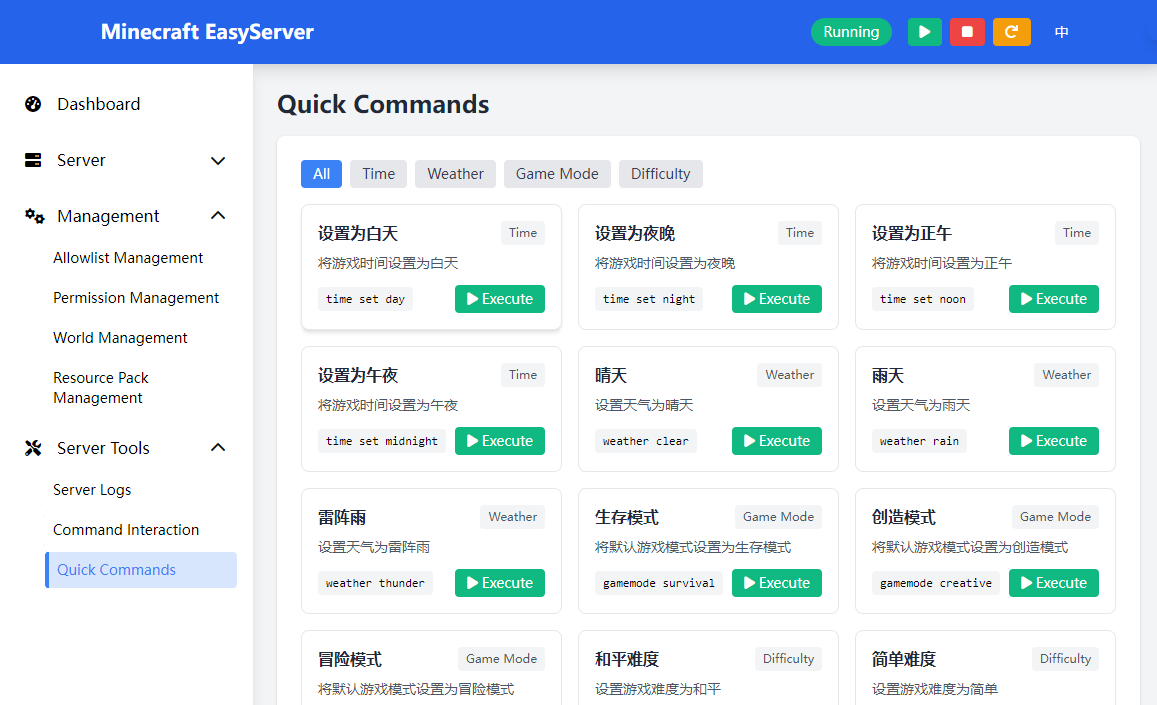
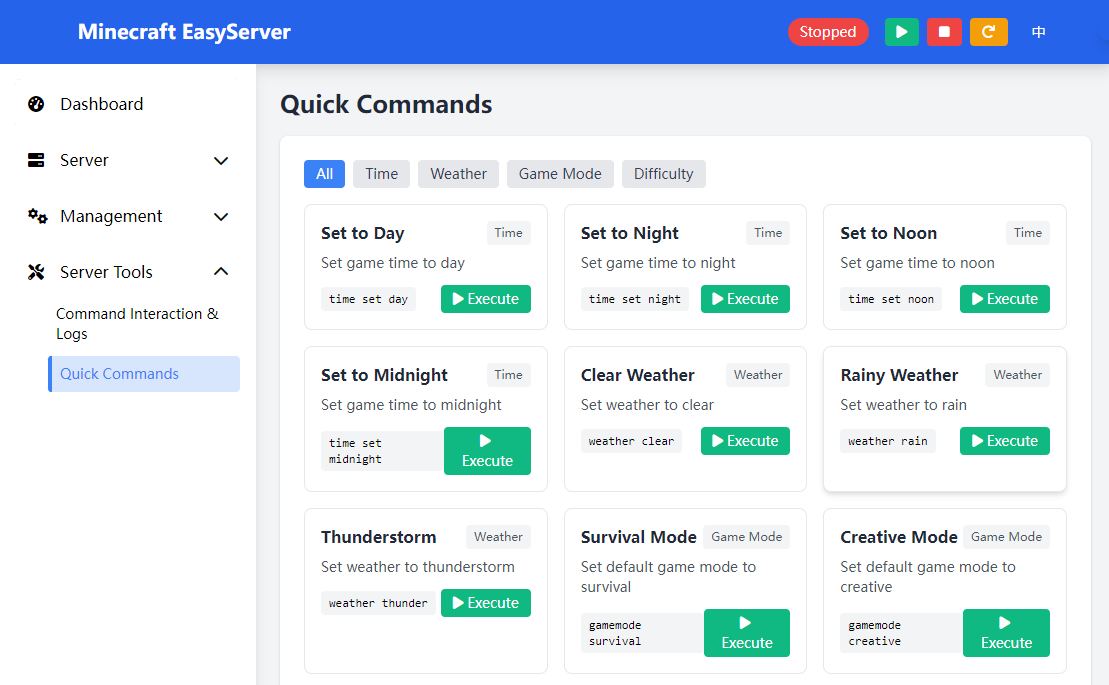
update readme and localization

diff --git a/web/assets/js/i18n.js b/web/assets/js/i18n.js
@@ -101,6 +101,9 @@ class I18n {
                 'permission.add': '添加权限',
                 'permission.empty': '暂无权限设置',
                 'permission.error.empty-name': '请输入玩家xuid',
+                
+                // Command Input
+                'command.input.placeholder': '输入服务器命令并按回车执行...',
                 'permission.modal.title': '选择权限级别',
                 'permission.modal.description': '为玩家',
                 'permission.modal.description2': '选择权限级别：',
@@ -182,6 +185,36 @@ class I18n {
                 'commands.filter-failed': '筛选命令失败',
                 'commands.executed': '命令已执行',
                 'commands.execute-failed': '执行命令失败',
+                
+                // Quick command names and descriptions
+                'commands.time_day.name': '设置为白天',
+                'commands.time_day.description': '将游戏时间设置为白天',
+                'commands.time_night.name': '设置为夜晚',
+                'commands.time_night.description': '将游戏时间设置为夜晚',
+                'commands.time_noon.name': '设置为正午',
+                'commands.time_noon.description': '将游戏时间设置为正午',
+                'commands.time_midnight.name': '设置为午夜',
+                'commands.time_midnight.description': '将游戏时间设置为午夜',
+                'commands.weather_clear.name': '晴天',
+                'commands.weather_clear.description': '设置天气为晴天',
+                'commands.weather_rain.name': '雨天',
+                'commands.weather_rain.description': '设置天气为雨天',
+                'commands.weather_thunder.name': '雷阵雨',
+                'commands.weather_thunder.description': '设置天气为雷阵雨',
+                'commands.gamemode_survival.name': '生存模式',
+                'commands.gamemode_survival.description': '将默认游戏模式设置为生存模式',
+                'commands.gamemode_creative.name': '创造模式',
+                'commands.gamemode_creative.description': '将默认游戏模式设置为创造模式',
+                'commands.gamemode_adventure.name': '冒险模式',
+                'commands.gamemode_adventure.description': '将默认游戏模式设置为冒险模式',
+                'commands.difficulty_peaceful.name': '和平难度',
+                'commands.difficulty_peaceful.description': '设置游戏难度为和平',
+                'commands.difficulty_easy.name': '简单难度',
+                'commands.difficulty_easy.description': '设置游戏难度为简单',
+                'commands.difficulty_normal.name': '普通难度',
+                'commands.difficulty_normal.description': '设置游戏难度为普通',
+                'commands.difficulty_hard.name': '困难难度',
+                'commands.difficulty_hard.description': '设置游戏难度为困难',
                 'logs.clear-success': '日志清空成功',
                 'logs.clear-failed': '日志清空失败',
                 'logs.load-failed': '日志加载失败',
@@ -299,6 +332,9 @@ class I18n {
                 'permission.add': 'Add Permission',
                 'permission.empty': 'No permission settings',
                 'permission.error.empty-name': 'Please enter player xuid',
+                
+                // Command Input
+                'command.input.placeholder': 'Enter server command and press Enter to execute...',
                 'permission.modal.title': 'Select Permission Level',
                 'permission.modal.description': 'For player',
                 'permission.modal.description2': 'select permission level:',
@@ -381,6 +417,36 @@ class I18n {
                 'commands.filter-failed': 'Failed to filter commands',
                 'commands.executed': 'Command executed',
                 'commands.execute-failed': 'Failed to execute command',
+                
+                // Quick command names and descriptions
+                'commands.time_day.name': 'Set to Day',
+                'commands.time_day.description': 'Set game time to day',
+                'commands.time_night.name': 'Set to Night',
+                'commands.time_night.description': 'Set game time to night',
+                'commands.time_noon.name': 'Set to Noon',
+                'commands.time_noon.description': 'Set game time to noon',
+                'commands.time_midnight.name': 'Set to Midnight',
+                'commands.time_midnight.description': 'Set game time to midnight',
+                'commands.weather_clear.name': 'Clear Weather',
+                'commands.weather_clear.description': 'Set weather to clear',
+                'commands.weather_rain.name': 'Rainy Weather',
+                'commands.weather_rain.description': 'Set weather to rain',
+                'commands.weather_thunder.name': 'Thunderstorm',
+                'commands.weather_thunder.description': 'Set weather to thunderstorm',
+                'commands.gamemode_survival.name': 'Survival Mode',
+                'commands.gamemode_survival.description': 'Set default game mode to survival',
+                'commands.gamemode_creative.name': 'Creative Mode',
+                'commands.gamemode_creative.description': 'Set default game mode to creative',
+                'commands.gamemode_adventure.name': 'Adventure Mode',
+                'commands.gamemode_adventure.description': 'Set default game mode to adventure',
+                'commands.difficulty_peaceful.name': 'Peaceful Difficulty',
+                'commands.difficulty_peaceful.description': 'Set game difficulty to peaceful',
+                'commands.difficulty_easy.name': 'Easy Difficulty',
+                'commands.difficulty_easy.description': 'Set game difficulty to easy',
+                'commands.difficulty_normal.name': 'Normal Difficulty',
+                'commands.difficulty_normal.description': 'Set game difficulty to normal',
+                'commands.difficulty_hard.name': 'Hard Difficulty',
+                'commands.difficulty_hard.description': 'Set game difficulty to hard',
                 'logs.clear-success': 'Logs cleared successfully',
                 'logs.clear-failed': 'Failed to clear logs',
                 'logs.load-failed': 'Failed to load logs',
@@ -471,6 +537,11 @@ class I18n {
         // Update server status if the function exists
         if (typeof updateServerStatus === 'function' && typeof currentServerStatus !== 'undefined') {
             updateServerStatus(currentServerStatus);
+        }
+        
+        // Update quick commands if the function exists
+        if (typeof loadQuickCommands === 'function') {
+            loadQuickCommands();
         }
     }
 

diff --git a/web/assets/js/app.js b/web/assets/js/app.js
@@ -1472,12 +1472,18 @@ function createQuickCommandElement(command) {
     const div = document.createElement('div');
     div.className = 'bg-white border border-gray-200 rounded-lg p-4 hover:shadow-md transition duration-200';
     
+    // Get internationalized name and description
+    const nameKey = `commands.${command.id}.name`;
+    const descriptionKey = `commands.${command.id}.description`;
+    const displayName = window.i18n ? window.i18n.t(nameKey) : command.name;
+    const displayDescription = window.i18n ? window.i18n.t(descriptionKey) : command.description;
+    
     div.innerHTML = `
         <div class="flex justify-between items-start mb-2">
-            <h4 class="font-semibold text-gray-800">${escapeHtml(command.name)}</h4>
+            <h4 class="font-semibold text-gray-800">${escapeHtml(displayName)}</h4>
             <span class="text-xs bg-gray-100 text-gray-600 px-2 py-1 rounded">${getCategoryDisplayName(command.category)}</span>
         </div>
-        <p class="text-sm text-gray-600 mb-3">${escapeHtml(command.description)}</p>
+        <p class="text-sm text-gray-600 mb-3">${escapeHtml(displayDescription)}</p>
         <div class="flex justify-between items-center">
             <code class="text-xs bg-gray-100 px-2 py-1 rounded font-mono">${escapeHtml(command.command)}</code>
             <button class="bg-green-500 hover:bg-green-600 text-white px-3 py-1 rounded text-sm transition duration-200" 

diff --git a/web/index.html b/web/index.html
@@ -444,7 +444,7 @@
                         <div class="bg-gray-900 px-4 py-3 rounded-b-lg border-t border-gray-700">
                             <div class="flex items-center space-x-2">
                                 <span class="text-green-400 font-mono text-sm">></span>
-                                <input type="text" id="command-input" class="flex-1 bg-transparent text-green-400 font-mono text-sm border-none outline-none placeholder-gray-500" placeholder="输入服务器命令并按回车执行...">
+                                <input type="text" id="command-input" class="flex-1 bg-transparent text-green-400 font-mono text-sm border-none outline-none placeholder-gray-500" data-i18n-placeholder="command.input.placeholder">
                                 <button id="send-command-btn" class="text-green-400 hover:text-green-300 transition duration-200" disabled>
                                     <i class="fas fa-paper-plane"></i>
                                 </button>

diff --git a/readme.md b/readme.md
@@ -62,10 +62,10 @@ A **lightweight** Minecraft server web management panel with modern UI and compr
 - **Quick Commands** Access frequently used commands through categorized quick access buttons
 
 ## 👀 Management Panel Preview
+![Dashboard Preview](docs/resources/screenshot-en-status.png)
 ![Management Panel Preview](docs/resources/screenshot-en-manage.png)
 ![Server Download Panel Preview](docs/resources/screenshot-en-version.png)
-![Log Interface Preview](docs/resources/screenshot-en-log.png)
-![Command Execution Interface Preview](docs/resources/screenshot-en-cmd.png)
+![Cmd and Log Preview](docs/resources/screenshot-en-cmd-exec.png)
 ![Quick Commands Preview](docs/resources/screenshot-en-cmd-quick.png)
 
 ## 📋 System Requirements

diff --git a/docs/README_CN.md b/docs/README_CN.md
@@ -59,10 +59,10 @@
 - **快捷命令** 通过分类的快速访问按钮使用常用命令
 
 ## 👀 管理端预览
+![主页预览](resources/screenshot-zh-status.png)
 ![管理主页预览](resources/screenshot-zh-manage.png)
 ![服务器下载面板预览](resources/screenshot-zh-version.png)
-![日志界面预览](resources/screenshot-zh-log.png)
-![命令执行界面预览](resources/screenshot-zh-cmd.png)
+![Cmd and Log 预览](resources/screenshot-zh-cmd-exec.png)
 ![快速命令预览](resources/screenshot-zh-cmd-quick.png)
 
 ## 📋 系统要求
